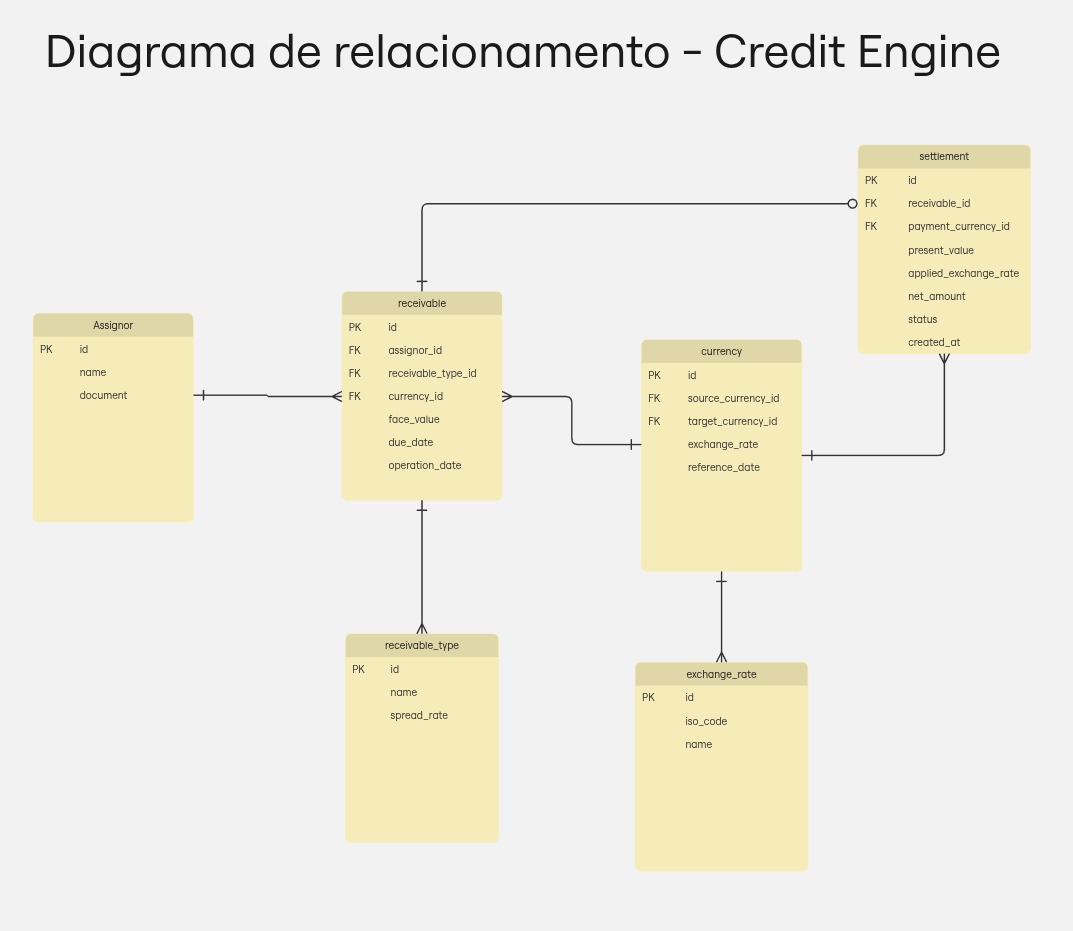
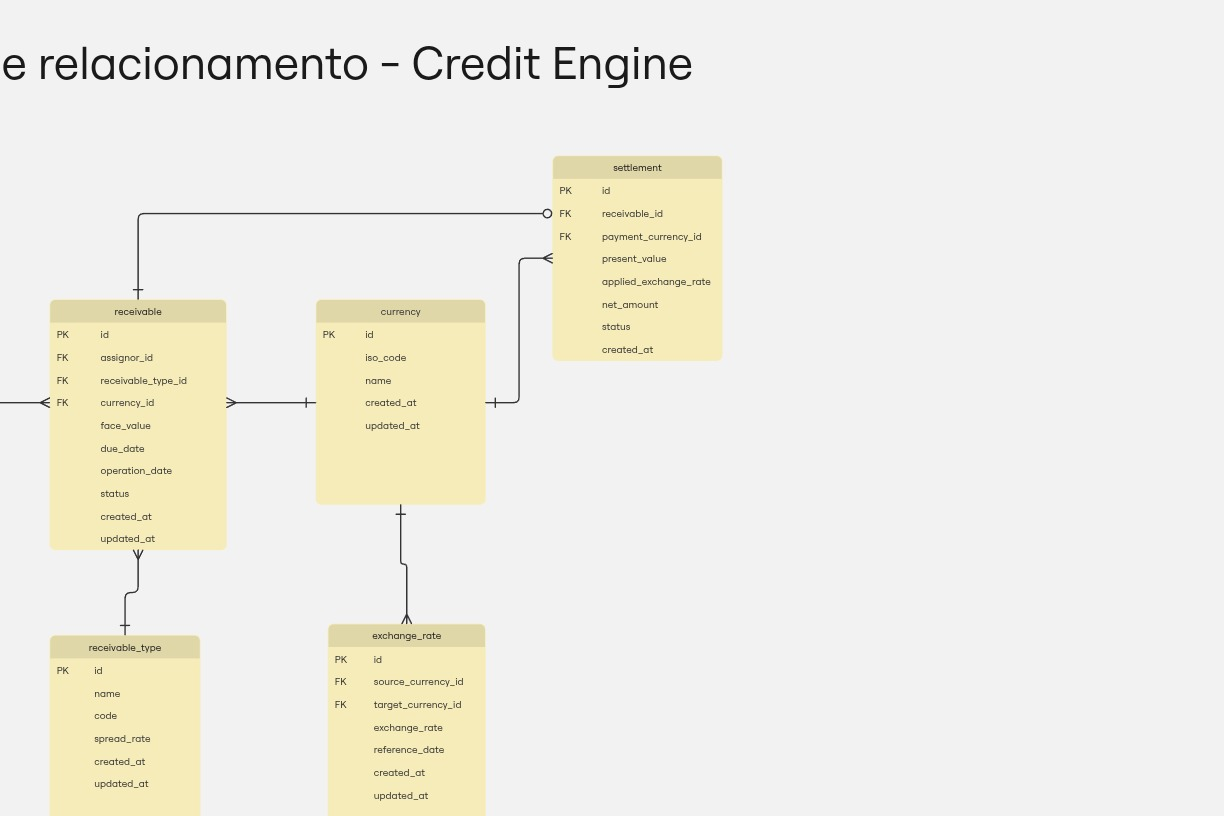
feat(database): add initial flyway migrations

diff --git a/docs/architecture-decisions.md b/docs/architecture-decisions.md
@@ -155,3 +155,42 @@ Pode não estar disponível em ambientes legados
 
 ---
 
+# ADR-005 - Modelagem e Integridade da Tabela de Câmbio (`exchange_rate`)
+
+## Decisão
+> Foi adotada uma modelagem com regras rígidas de integridade no nível de banco de dados (constraints `CHECK` e `UNIQUE`) e indexação composta otimizada na tabela `exchange_rate`.
+
+## Contexto
+O sistema realiza conversões de moedas e auditoria de liquidações financeiras. Cotações zeradas, negativas ou duplicadas no mesmo dia podem causar falhas críticas de cálculo (como divisão por zero) ou inconsistências contábeis. Além disso, consultas de cotação por par de moedas e data são frequentes e críticas para a performance.
+
+## Alternativas avaliadas
+
+- Validação das regras de negócio apenas no backend (Spring Boot/Bean Validation).
+- Validação no backend + Constraints de Integridade e Índices Dedicados no PostgreSQL (Escolhido).
+
+## Motivo da escolha
+
+A combinação de validações no banco e índice planejado foi adotada por três razões principais:
+
+1. **Defesa em Profundidade (*Defense in Depth*) e Constraint `CHECK`:**
+   A constraint `CHECK (exchange_rate > 0)` garante que nenhuma taxa menor ou igual a zero seja inserida. Isso previne falhas graves na aplicação (como divisão por zero no cálculo de conversão) e assegura que os dados permaneçam válidos mesmo que ocorra um bug no backend ou um script SQL seja executado diretamente no banco.
+
+2. **Garantia de Invariância Contábil e Constraint `UNIQUE`:**
+   A constraint `uq_rate_by_date` garante a unicidade do par `(target_currency_id, source_currency_id, reference_date)`, impedindo a existência de duas cotações conflitantes para o mesmo par de moedas no mesmo dia.
+
+3. **Otimização de Consultas e Índice Composto DESC (`idx_exchange_rate_search`):**
+   A consulta mais frequente do sistema busca a cotação de um par específico de moedas na data mais recente. O índice composto `(source_currency_id, target_currency_id, reference_date DESC)` cobre exatamente os campos da cláusula `WHERE` e a ordenação do `ORDER BY reference_date DESC`, permitindo uma busca via *Index Scan* de baixíssima latência ($O(\log N)$).
+
+4. **Precisão Numérica (`DECIMAL(18, 6)`):**
+   O tipo `DECIMAL` foi escolhido em detrimento do `FLOAT`/`DOUBLE` para evitar inconsistências decorrentes do arredondamento de ponto flutuante em operações financeiras.
+
+## Vantagens
+
+- **Integridade Garantida:** Impede a entrada de dados inválidos no nível mais baixo da infraestrutura.
+- **Alta Performance em Leitura:** Índice alinhado com o padrão de acesso mais comum do sistema.
+- **Auditoria Confiável:** Impossibilita cotações duplicadas na mesma data de referência.
+- **Precisão Financeira:** Uso correto de tipo numérico exato para taxas de conversão.
+
+## Desvantagens
+
+- **Pequeno Overhead em Escrita:** A verificação de constraints e atualização do índice adiciona um custo insignificante no `INSERT`/`UPDATE` (aceitável dado que cotações têm volume de leitura muito superior ao de escrita).
